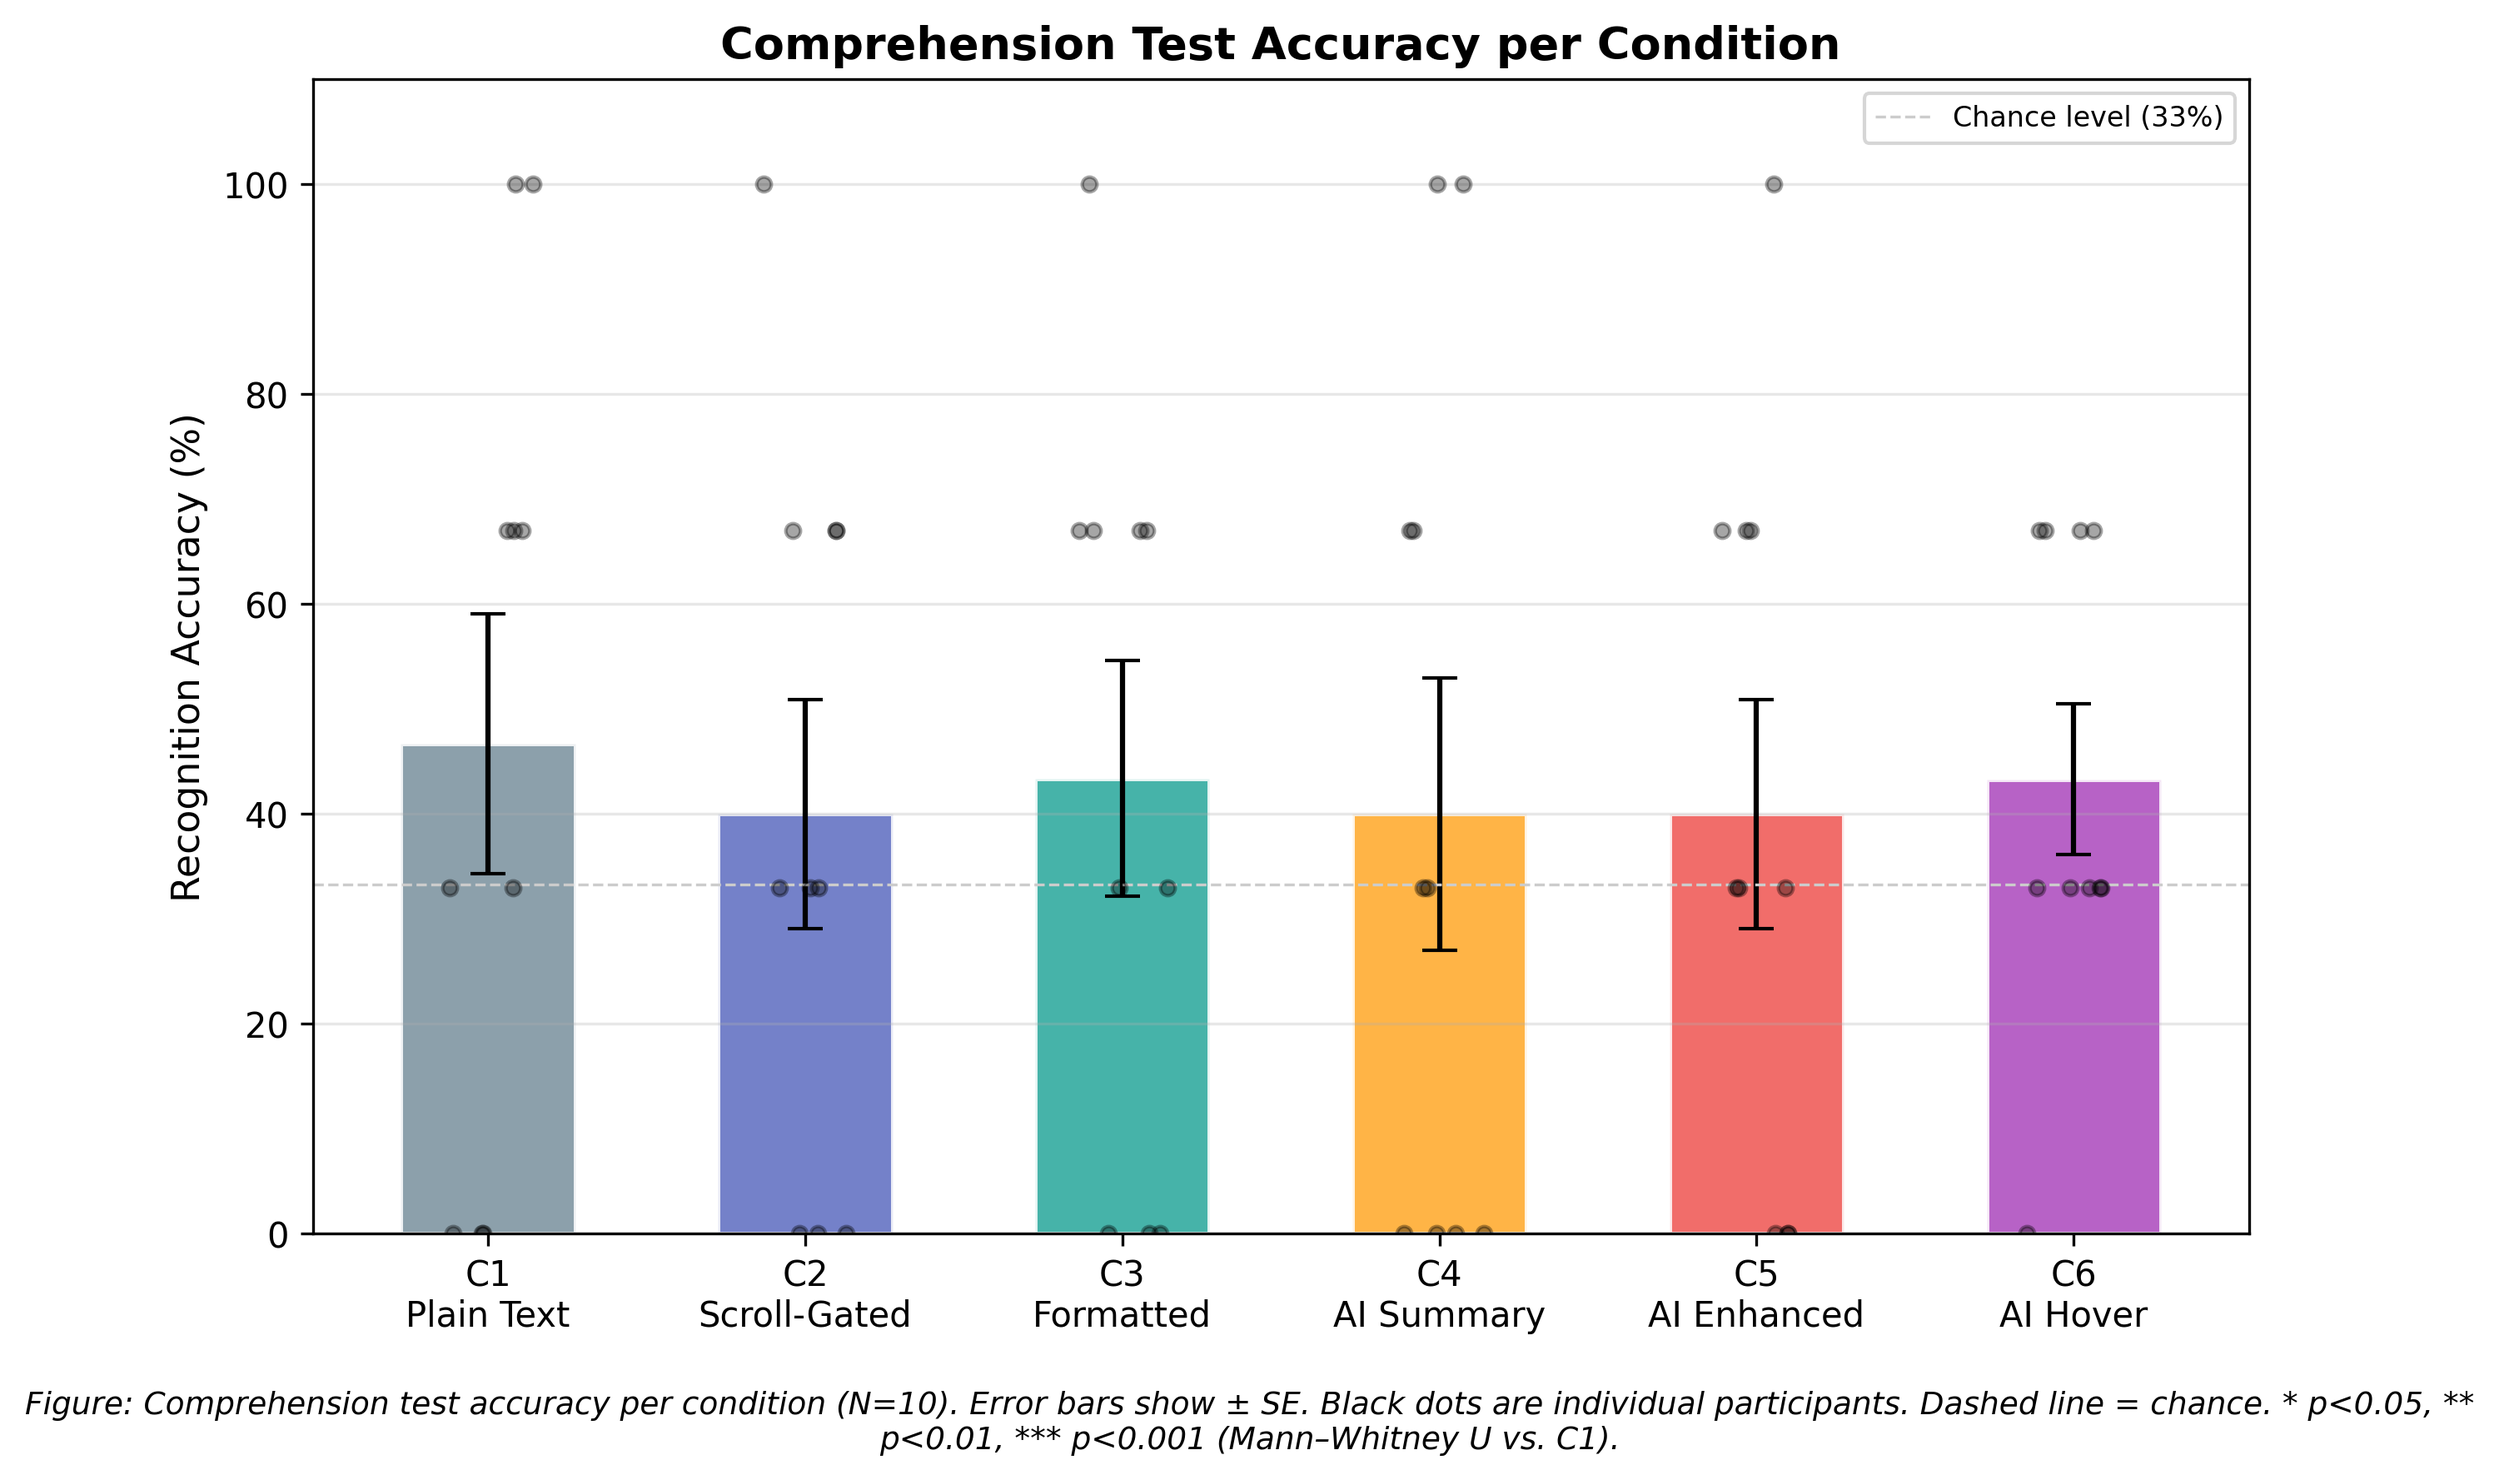
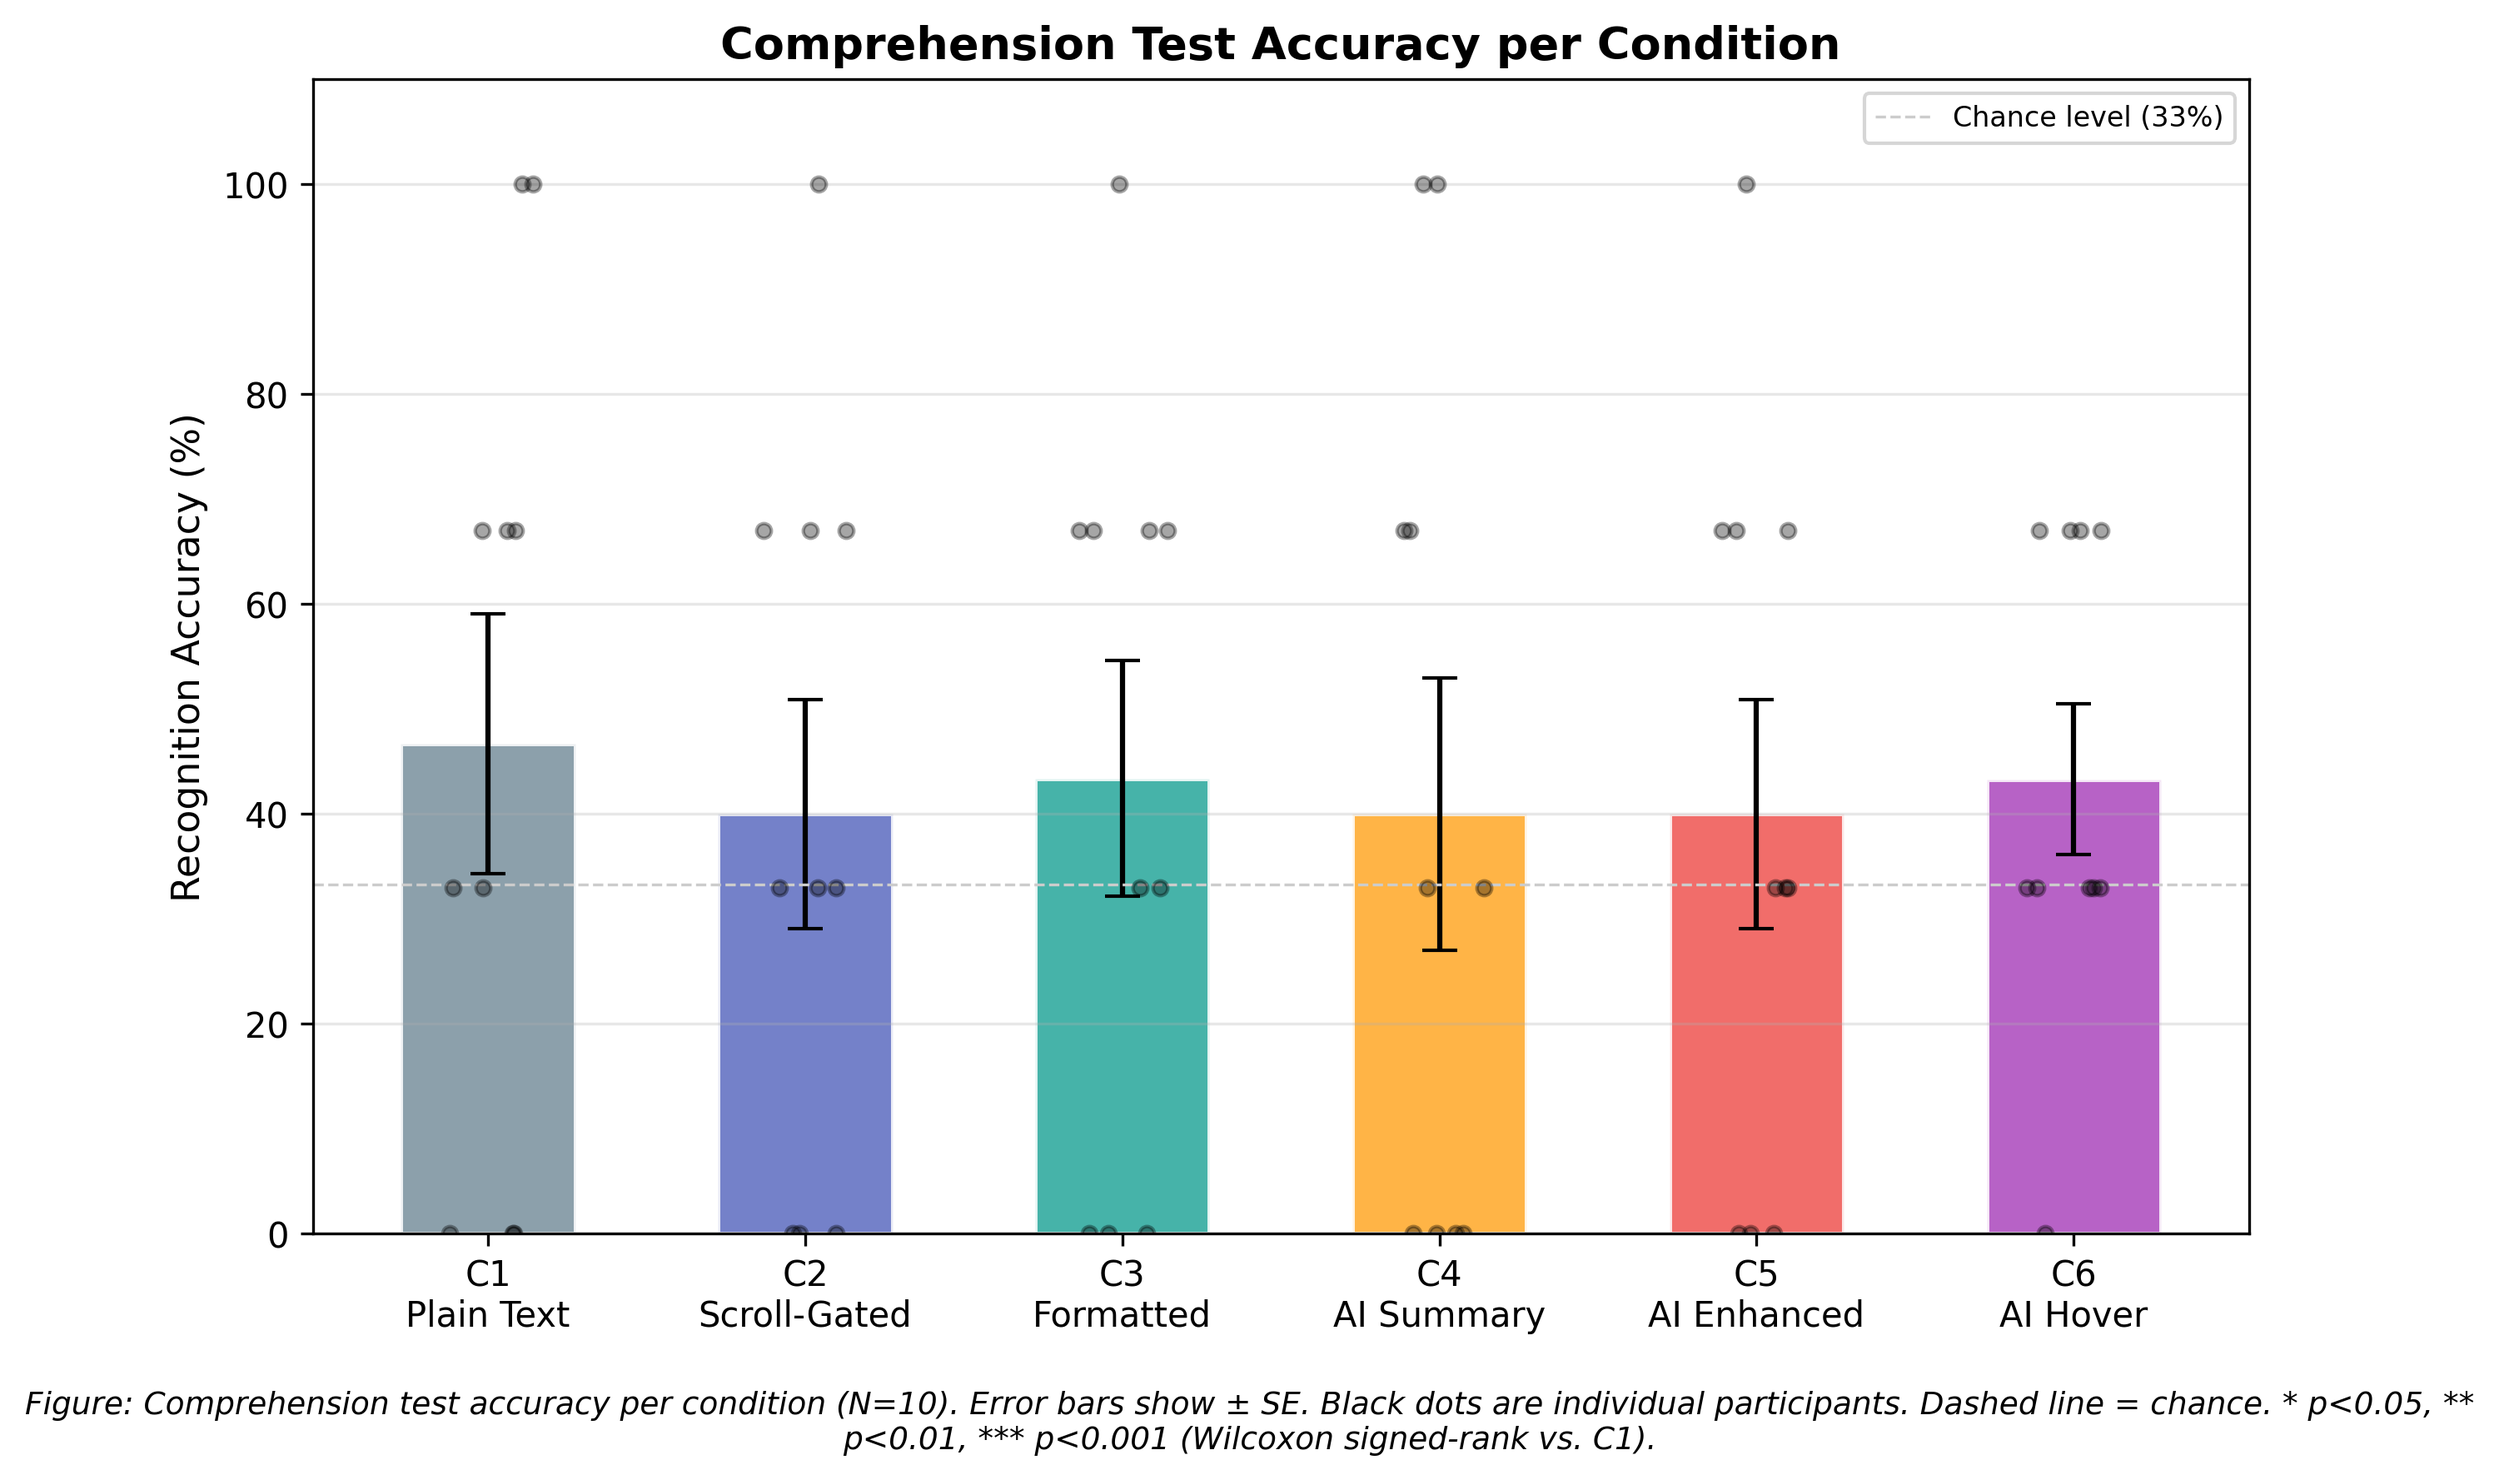
Error with Figure label

diff --git a/Main/backend/NLP/dissertation_figures/comprehension_scores.py b/Main/backend/NLP/dissertation_figures/comprehension_scores.py
@@ -149,8 +149,8 @@ def generate():
     for i, c in enumerate(conditions):
         if c == 1 or not cond_pcts[1] or not cond_pcts[c]:
             continue
-        _, p = sp_stats.mannwhitneyu(cond_pcts[1], cond_pcts[c],
-                                     alternative="two-sided")
+        _, p = sp_stats.wilcoxon(cond_pcts[1], cond_pcts[c],
+                                 alternative="two-sided")
         _add_significance_bracket(ax, 0, i, max_y + (i - 1) * 4, p, h=1.5)
 
     fig.text(
@@ -158,7 +158,7 @@ def generate():
         f"Figure: Comprehension test accuracy per condition (N={n}). "
         "Error bars show ± SE. Black dots are individual participants. "
         "Dashed line = chance. * p<0.05, ** p<0.01, *** p<0.001 "
-        "(Mann–Whitney U vs. C1).",
+        "(Wilcoxon signed-rank vs. C1).",
         ha="center", fontsize=9, style="italic", wrap=True,
     )
     out1 = OUTPUT_DIR / "comprehension_accuracy.png"
